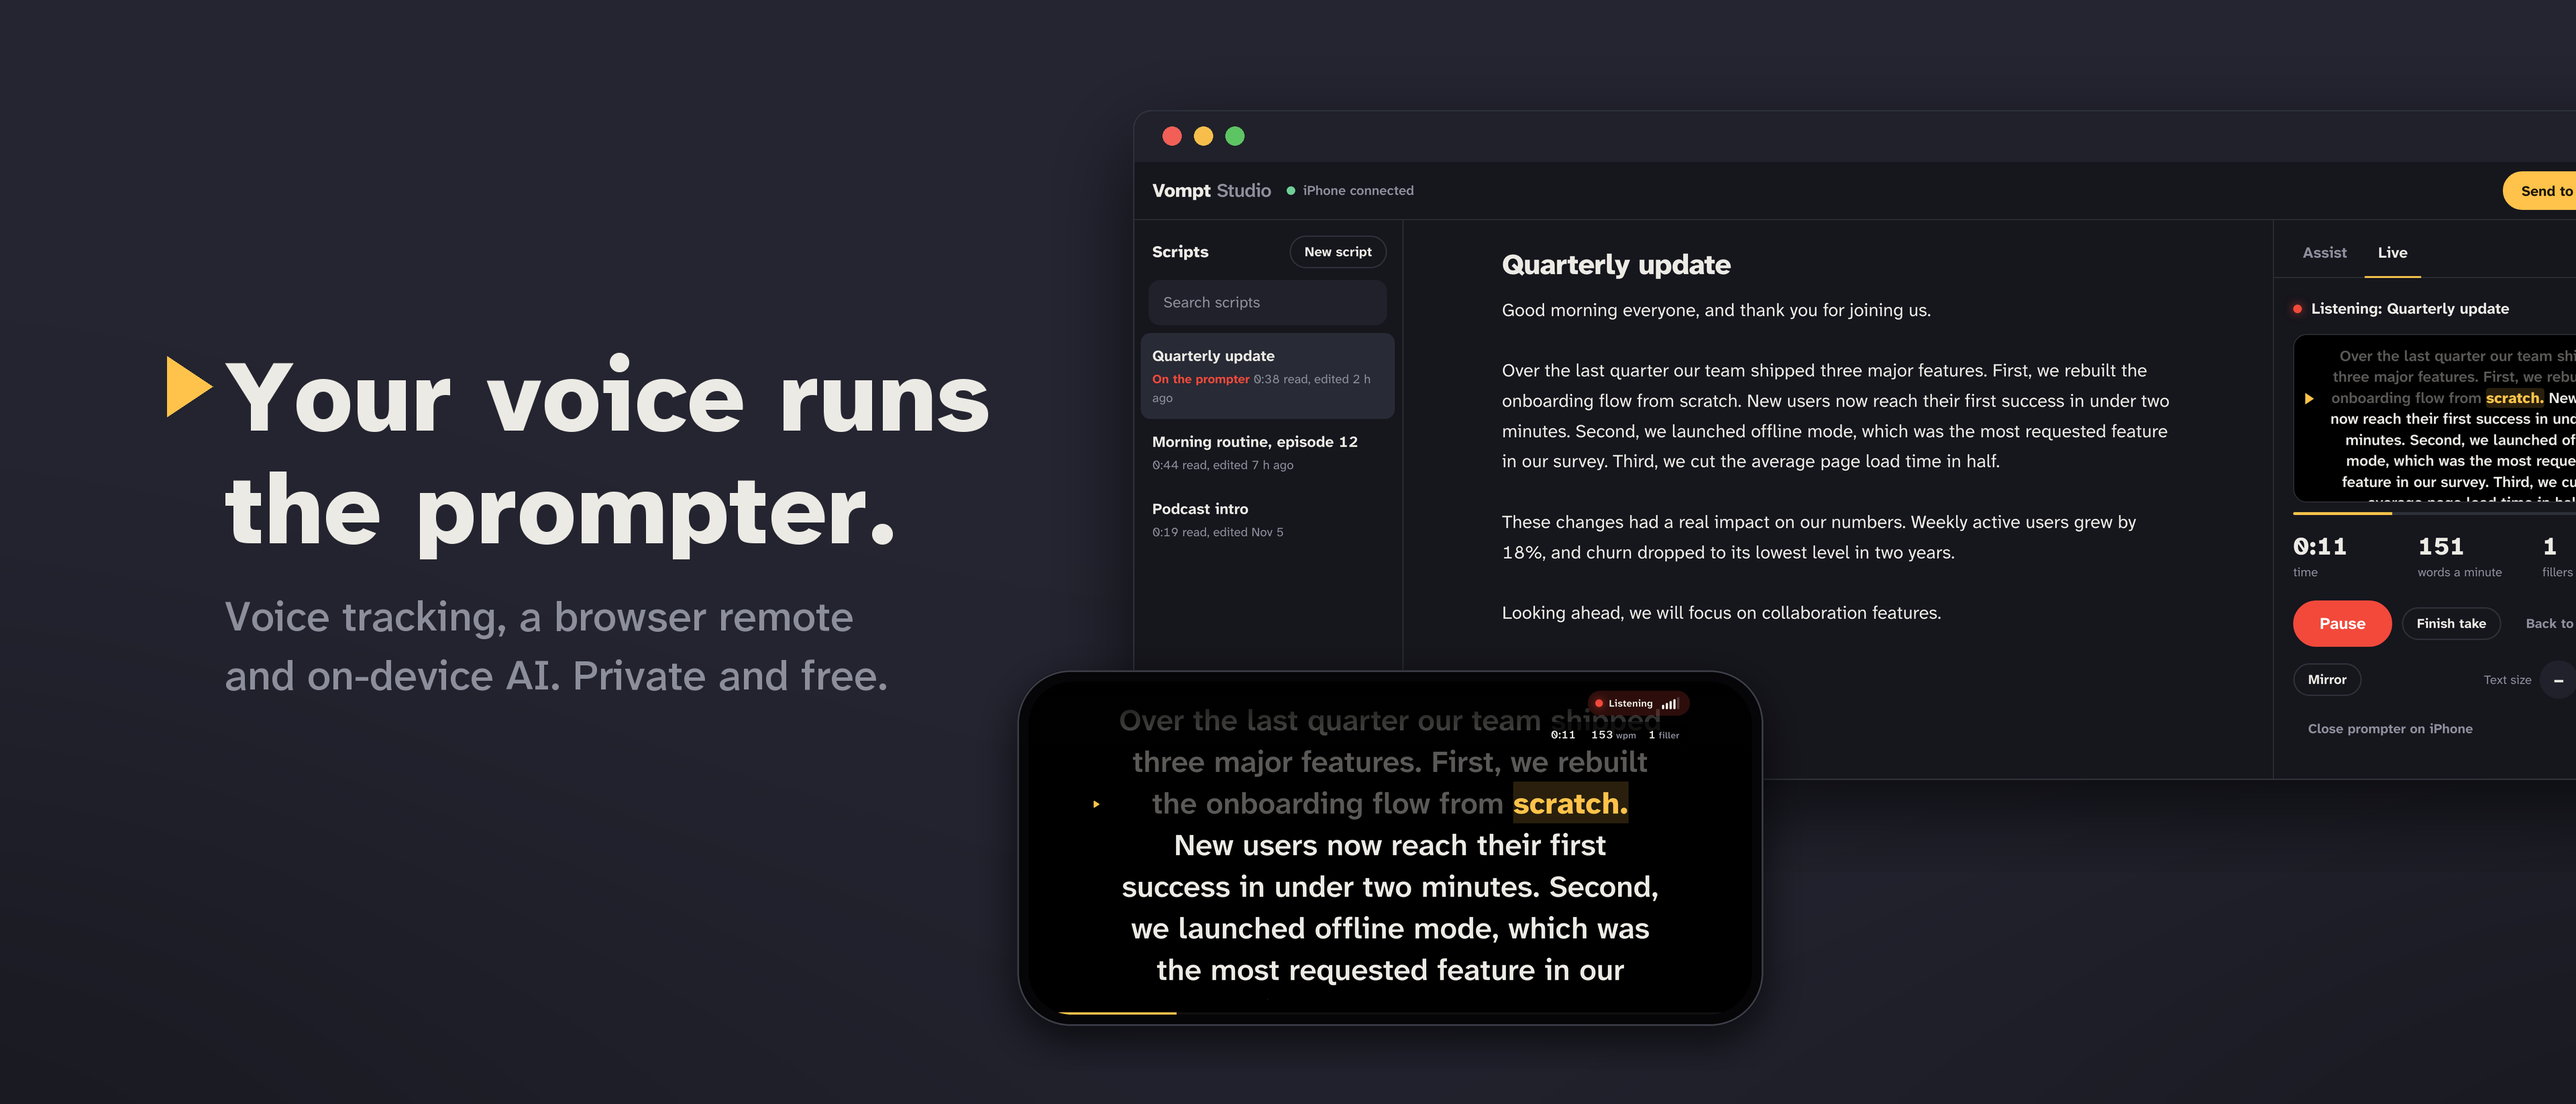
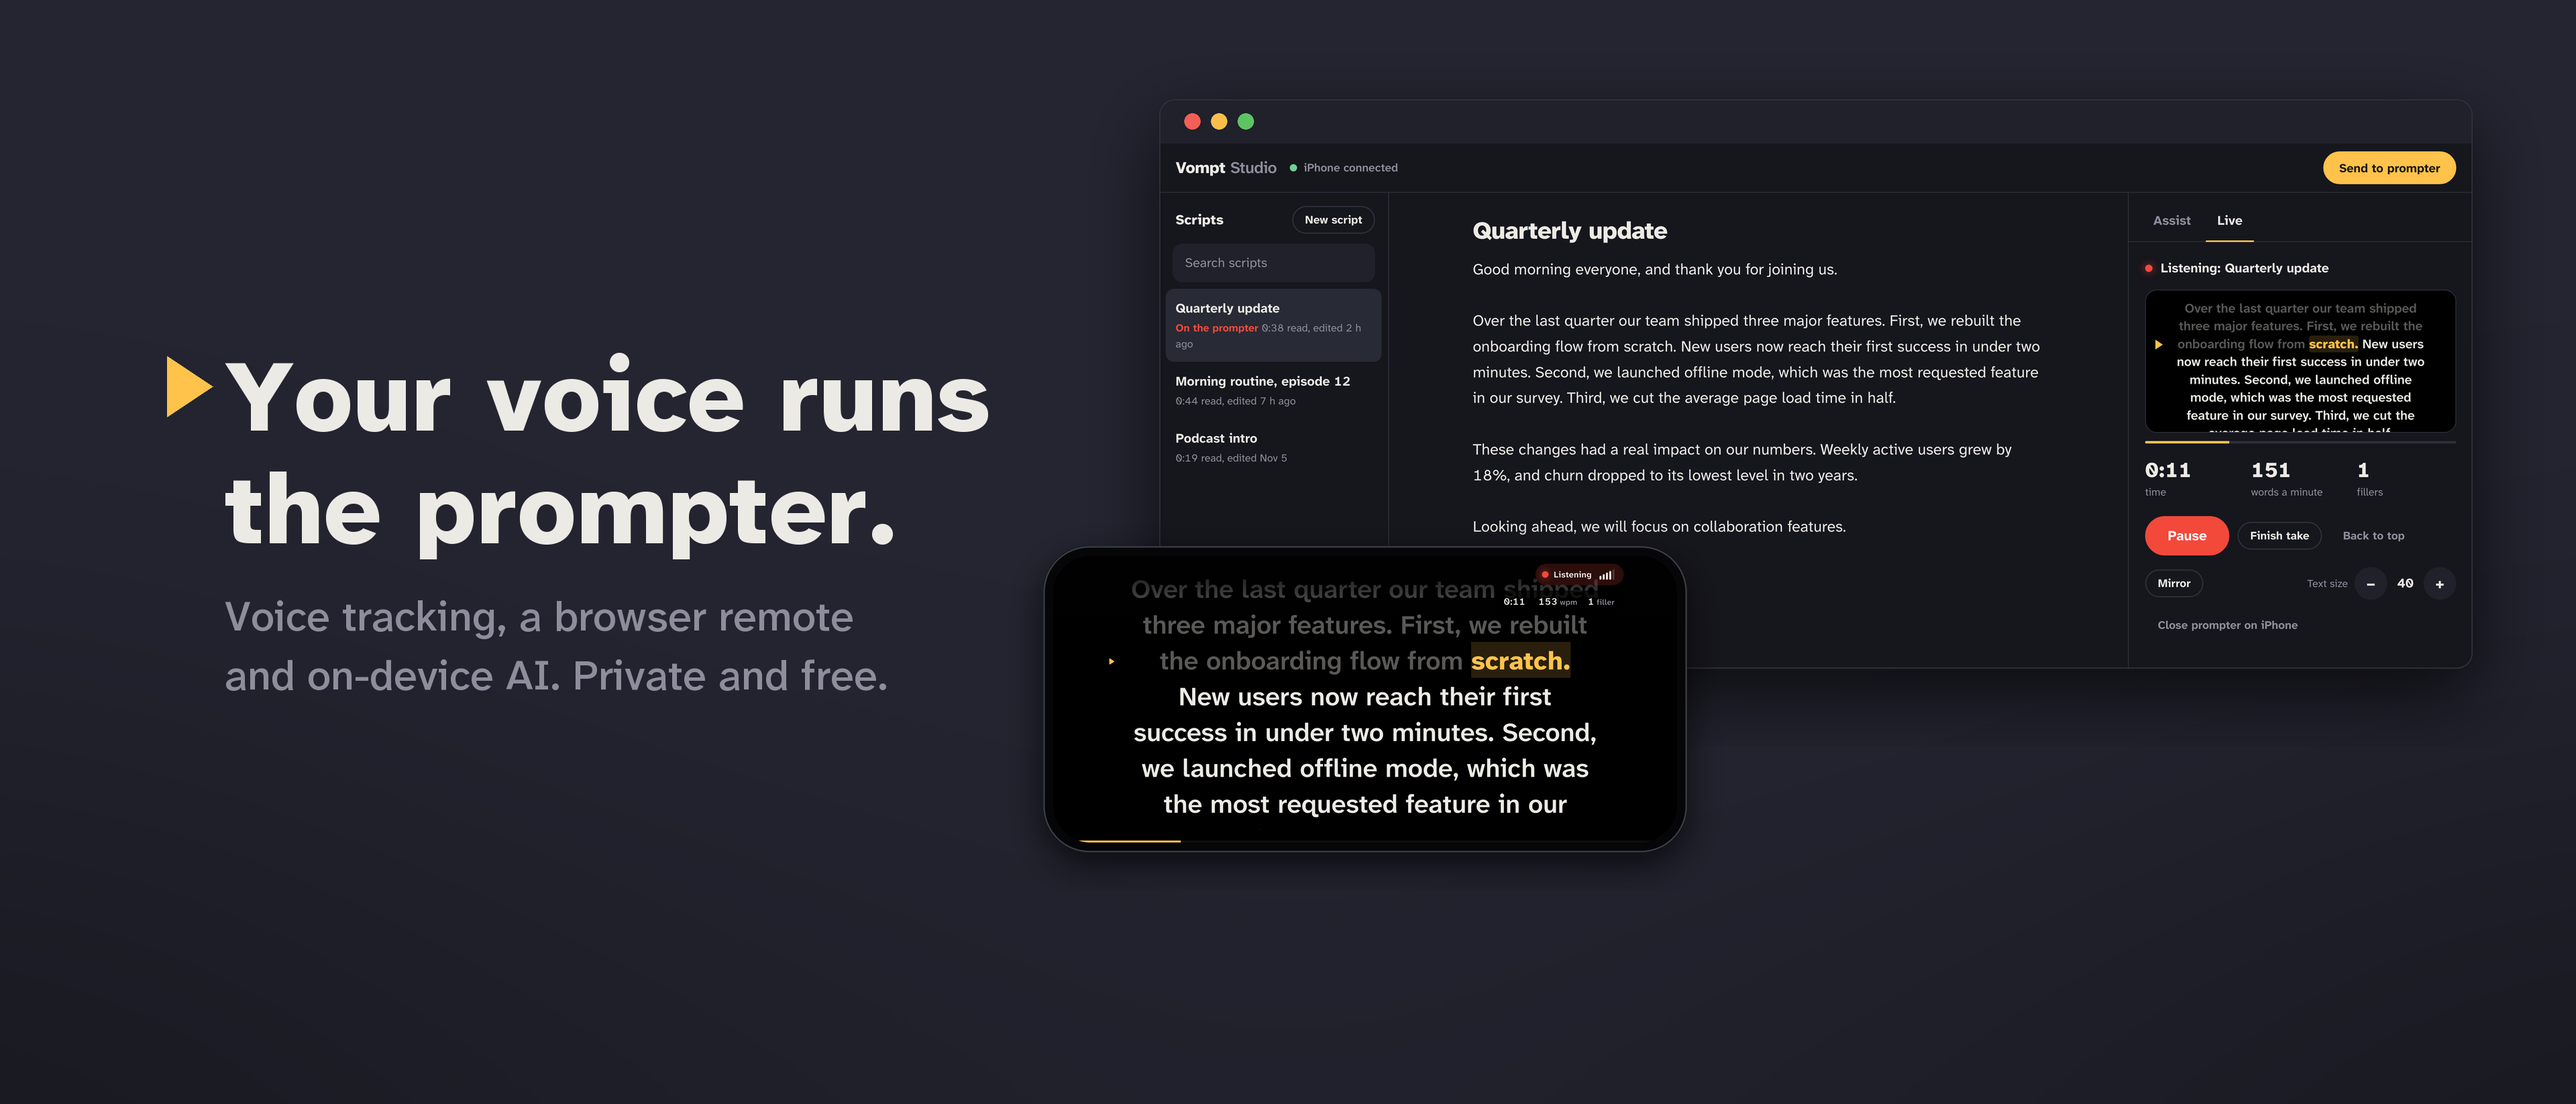
Add 16:9 universal header/search art; keep Studio fully in frame
The 5244 x 2950 PNG is accepted for both the header and search results.
The header and the new art now show the whole Studio window, including
its Live controls, with the phone overlapping its corner.

diff --git a/tools/marketing.py b/tools/marketing.py
@@ -9,6 +9,7 @@ docs/images/studio-live.png (Vompt Studio's Live tab).
 Outputs in store/marketing/:
   header-3840x1646.png        product page header (21:9)
   search-3840x2560.png        search results asset (3:2)
+  universal-5244x2950.png     16:9 PNG accepted for both header and search
   <device>/<n>-<scene>.png    captioned screenshots per device slot
 
 Copy leads with what sets Vompt apart: voice tracking, the browser remote,
@@ -242,6 +243,17 @@ def screenshot(device, scene, headline, sub, index):
     return path
 
 
+def hero(canvas, left, top, width, phone_width, center=None, phone_shift=0.18):
+    """Studio window fully in frame, with the phone it drives overlapping the
+    window's lower-left corner. With `center`, the group is centered on that y."""
+    br = browser(studio(), width)
+    ph = phone(load("iphone-6.9", "1-prompter.png"), phone_width)
+    if center is not None:
+        top = center - (br.height + ph.height * 0.60) / 2
+    place(canvas, br, left, top)
+    place(canvas, ph, left - phone_width * phone_shift, top + br.height - ph.height * 0.40)
+
+
 def header():
     """21:9 product page header: the pitch on the left, Studio driving the phone on the right."""
     w, h = 3840, 1646
@@ -249,11 +261,7 @@ def header():
     size = 150
     caption(canvas, w * 0.06 + size * 0.7, h * 0.30, w * 0.33, "Your voice runs the prompter.",
             "Voice tracking, a browser remote\nand on-device AI. Private and free.", size)
-    # Studio bleeds off the right edge; the phone sits in front of it.
-    br = browser(studio(), w * 0.60)
-    place(canvas, br, w * 0.44, h * 0.10)
-    ph = phone(load("iphone-6.9", "1-prompter.png"), w * 0.29)
-    place(canvas, ph, w * 0.395, h * 0.93 - ph.height)
+    hero(canvas, w * 0.45, h * 0.09, w * 0.51, w * 0.25)
     path = OUT / "header-3840x1646.png"
     path.parent.mkdir(parents=True, exist_ok=True)
     canvas.convert("RGB").save(path, optimize=True)
@@ -274,7 +282,21 @@ def search():
     return path
 
 
+def universal():
+    """16:9 PNG that App Store Connect accepts for both header and search results."""
+    w, h = 5244, 2950
+    canvas = background(w, h).convert("RGBA")
+    size = 230
+    caption(canvas, w * 0.06 + size * 0.7, h * 0.355, w * 0.34, "Your voice runs the prompter.",
+            "Voice tracking, a browser remote\nand on-device AI. Private and free.", size)
+    hero(canvas, w * 0.47, 0, w * 0.50, w * 0.29, center=h * 0.5, phone_shift=0.10)
+    path = OUT / "universal-5244x2950.png"
+    canvas.convert("RGB").save(path, optimize=True)
+    return path
+
+
 if __name__ == "__main__":
+    print(universal().relative_to(ROOT))
     print(header().relative_to(ROOT))
     print(search().relative_to(ROOT))
     for device in DEVICES:

diff --git a/store/APP_STORE.md b/store/APP_STORE.md
@@ -78,6 +78,7 @@ Generated by `tools/marketing.py` into `store/marketing/`. Both lead with the br
 | --- | --- | --- |
 | Header | `header-3840x1646.png` | 21:9, 3840 × 1646 |
 | Search Results | `search-3840x2560.png` | 3:2, 3840 × 2560 (the maximum) |
+| Either | `universal-5244x2950.png` | 16:9, 5244 × 2950, PNG; accepted for both header and search results |
 
 In App Store Connect: version page > Product Page Information > Header and Search Results. Pick Header or Search Results, then Upload.
 
